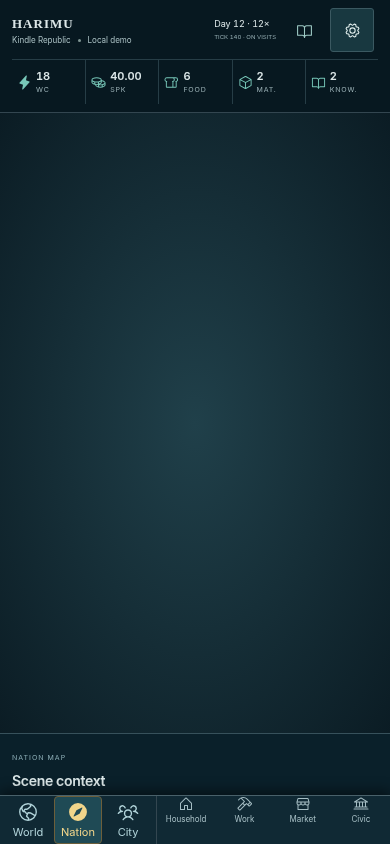
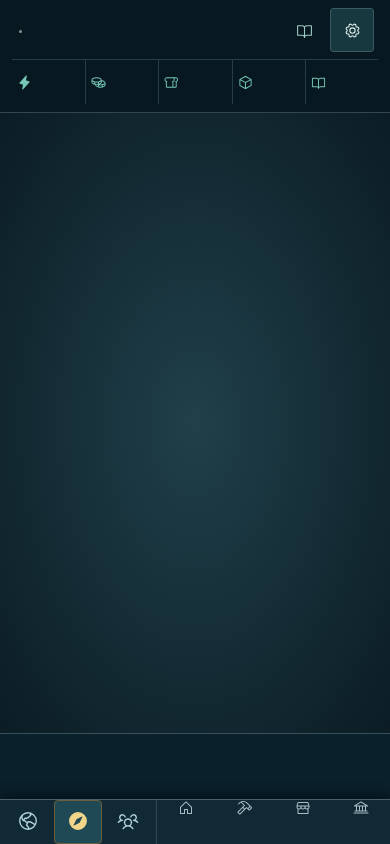
S8: dock labels wrap instead of clipping at 320px; dock height content-driven (45px min), tab bar follows --s8-dock (Refs #838) (#868)

diff --git a/app/game-shell.css b/app/game-shell.css
@@ -438,11 +438,14 @@ body:has(.harimu-game){overflow:auto}
 @media(max-width:760px){
   .harimu-game.game-mobile-v2>.game-hud{grid-row:1 / span 2} /* the top bar fills the nav row's (text-scaled, #80) track, so the empty row leaves no gap */
   .game-mobile-v2.game-rail-on .game-nav-row{grid-row:8;position:sticky;bottom:0;z-index:8;border-top:1px solid #49616a;border-bottom:0;box-shadow:0 -4px 12px #0007}
-  .game-mobile-v2.game-rail-on:has(.citizen-dock) .game-nav-row{bottom:45px}
+  .game-mobile-v2.game-rail-on:has(.citizen-dock) .game-nav-row{bottom:max(45px,var(--s8-dock,45px))}
+  /* #838 follow-up: dock labels ("Civic inbox · 1 unread") wrap instead of clipping at 320px; the dock grows with them (45px minimum) and the tab bar and page end follow its measured height (--s8-dock, app/game-shell.tsx). */
+  .harimu-game.game-mobile-v2 .citizen-dock{height:auto;min-height:45px}.harimu-game.game-mobile-v2:has(.citizen-dock){padding-bottom:max(45px,var(--s8-dock,45px))}
+  .harimu-game.game-mobile-v2 .citizen-dock{flex-wrap:wrap}.harimu-game.game-mobile-v2 .citizen-dock>button{flex:1 1 0;min-width:min-content;padding:4px 6px;white-space:normal;overflow-wrap:normal;word-break:normal;line-height:1.2}
   .game-mobile-v2 .game-inspector{border-top:1px solid #49616a;border-radius:14px 14px 0 0;box-shadow:0 -6px 16px #0006;padding-top:14px}
   /* S8 follow-up (#377, ARC): the City scene is the screen minus the bars (heights from app/game-shell.tsx); 44dvh / 260px stay as the fallback */
   .harimu-game.game-mobile-v2.game-city-v2{grid-template-rows:auto minmax(calc(40px * var(--text-scale, 1)),auto) auto 0 minmax(0,auto)}
-  .game-mobile-v2.game-city-v2 .game-stage{min-height:0;height:max(200px,calc(100dvh - var(--s8-top,0px) - var(--s8-tabs,0px) - var(--s8-dock,0px)))}
+  .game-mobile-v2.game-city-v2 .game-stage{min-height:0;height:max(160px,calc(100dvh - var(--s8-top,0px) - var(--s8-tabs,0px) - var(--s8-dock,0px)))}
   .game-mobile-v2.game-city-v2:not([style*="--s8-top"]) .game-stage{height:44dvh}
   .game-mobile-v2 .game-inspector::before{content:"";display:block;width:36px;height:4px;margin:0 auto 6px;border-radius:2px;background:#6f8a92}
 }
